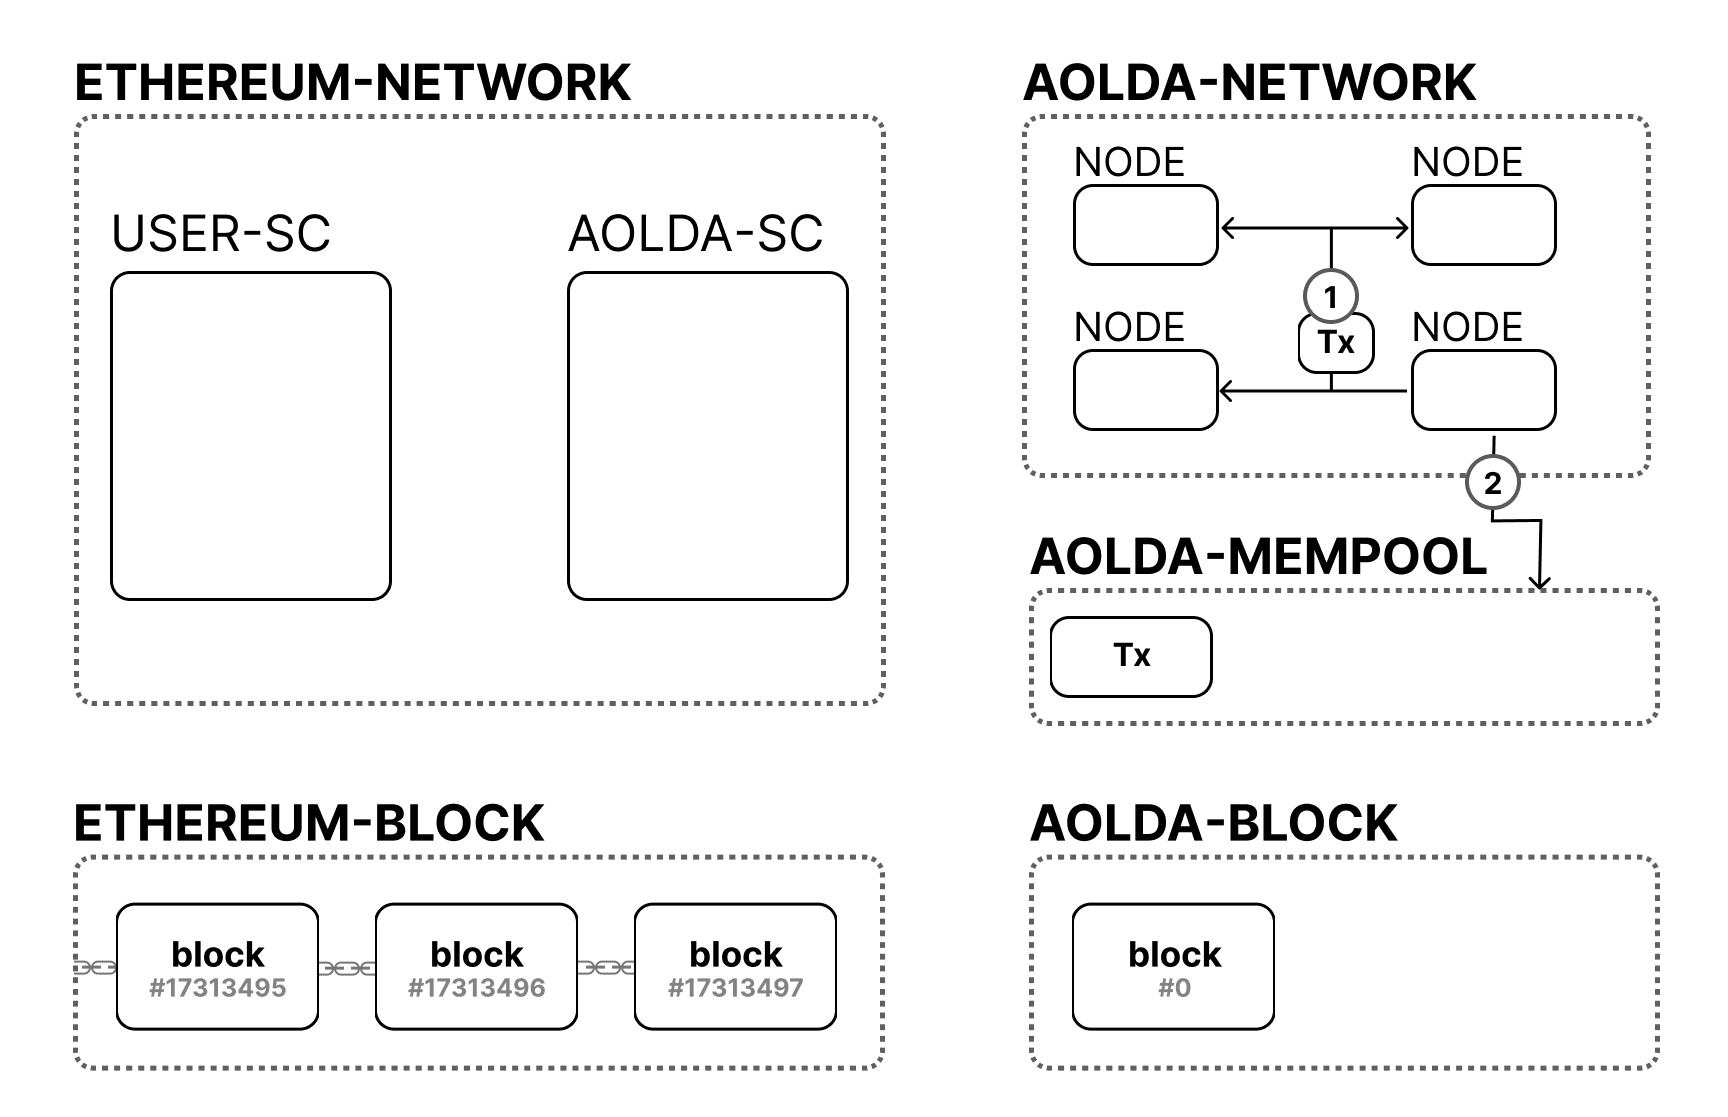
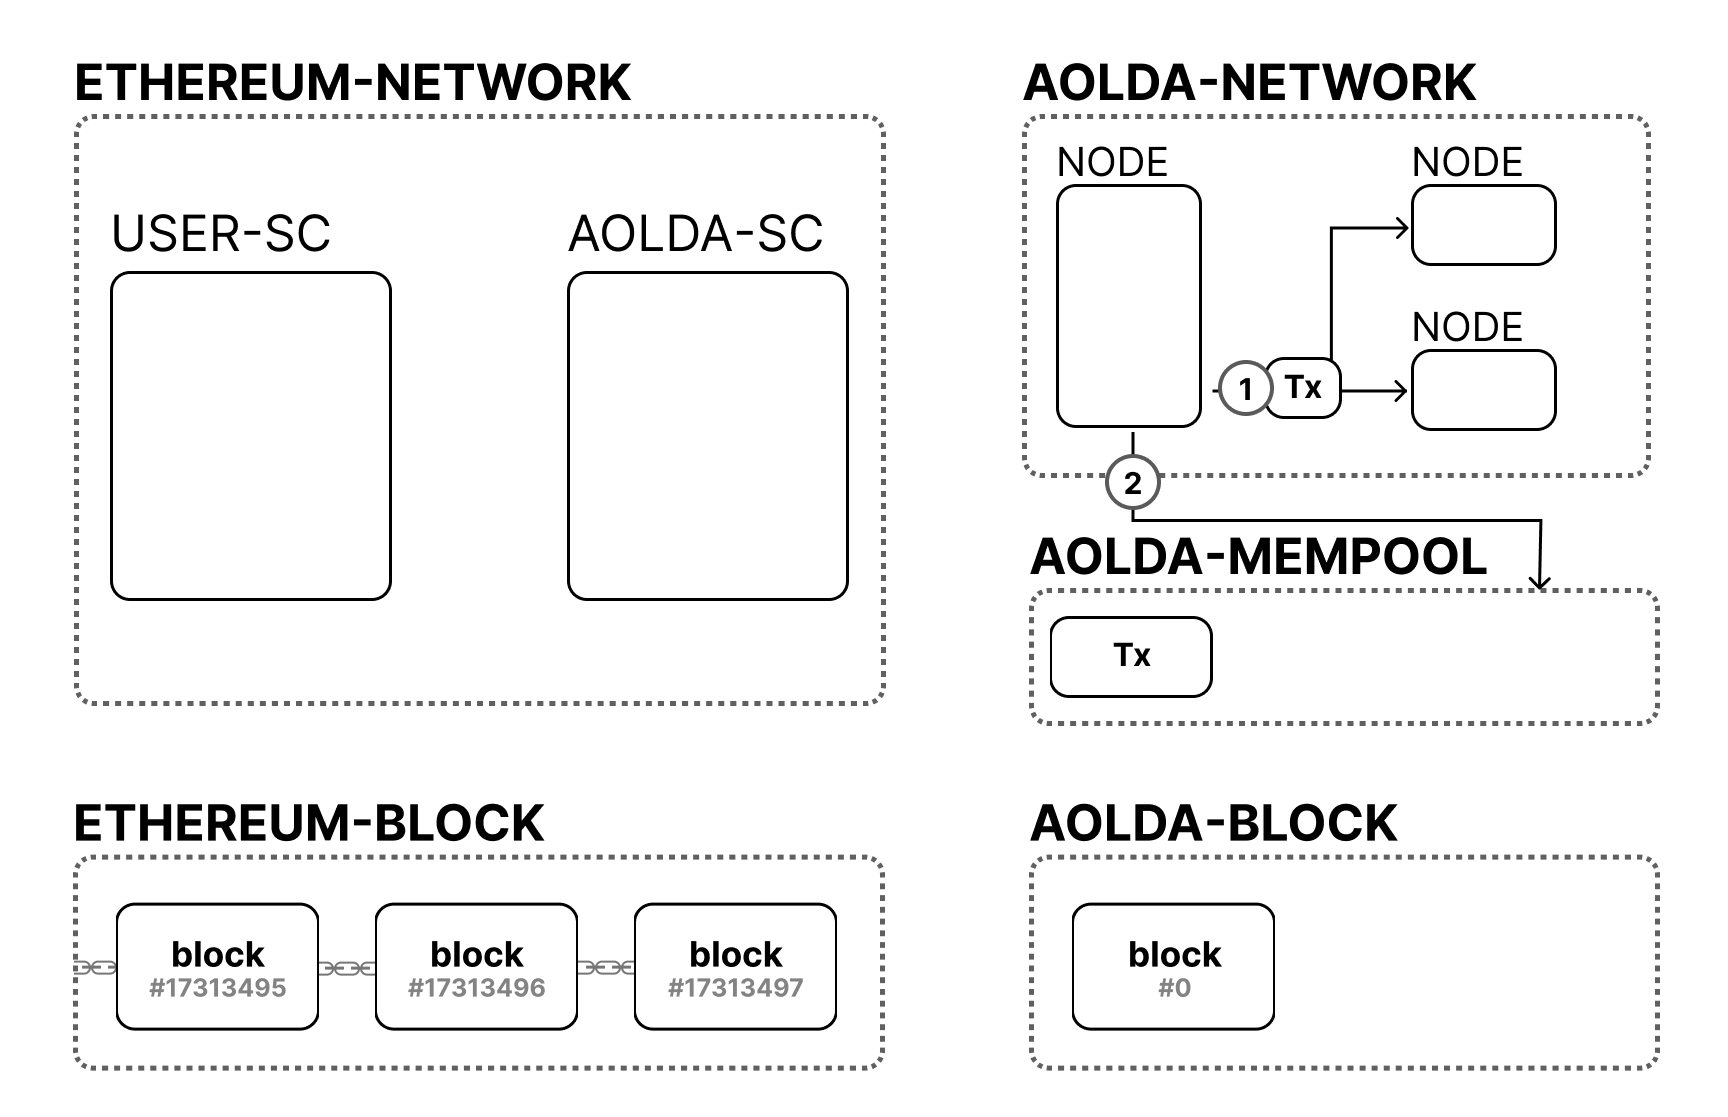
GITBOOK-9: change request with no subject merged in GitBook

diff --git a/aolda/how-to-run/create-transaction/confirm-value.md b/aolda/how-to-run/create-transaction/confirm-value.md
@@ -2,8 +2,24 @@
 
 ## 1. FindTx From Block
 
+<figure><img src="../../.gitbook/assets/1. find.png" alt=""><figcaption><p>Fig1. FindTx From Block</p></figcaption></figure>
+
+(1) 'Call With API'혹은 'Call From EVM'에서 생성된 Transaction body를 이용해 이미 확정된 Block 목록에서 같은 body에 대한 result가 있는 지 확인합니다. 만약 있다면 트랜잭션을 생성하지 않습니다.
+
 ## 2. Make Tx
+
+<figure><img src="../../.gitbook/assets/2.makeTx.png" alt=""><figcaption><p>Fig2. Make Tx</p></figcaption></figure>
+
+(1) 없다면 result값을 추가하여 type3의 트랜잭션을 생성합니다.
 
 ## 3. Broadcast And Push to Mempool&#x20;
 
+<figure><img src="../../.gitbook/assets/3. Broadcast And Push to Mempool.png" alt=""><figcaption><p>Fig3. Broadcast And Push to Mempool</p></figcaption></figure>
+
+(1) Node는 생성된 트랜잭션들을 모두 다른 Node에게 Broadcast합니다.
+
+(2) 다른 Node들은 트랜잭션의 유효성을 검사하고 이상이 없다면 트랜잭션을 처음 생성한 Node는 트랜잭션을 Mempool에 저장합니다.
+
 ## 4. CreateBlock
+
+이전 블럭이 생성된 후 충분한 시간이 지나면 Node는 Mempool에서 트랜잭션을 추출하여 새로운 블럭을 생성합니다. 블럭 생성에 대한 자세한 내용은 [Create Block 페이지](../create-aolda-block.md)에서 확인하세요.

diff --git a/aolda/README.md b/aolda/README.md
@@ -4,6 +4,8 @@ description: we connect EVM and other VMs
 
 # AOLDA : MULTI VM
 
+<figure><img src=".gitbook/assets/logo.png" alt=""><figcaption></figcaption></figure>
+
 ### 우리는 EVM과 다른 VM들을 연결합니다.
 
 비트코인이 세상에 처음 나오고 블록체인 기술이 대두되면서 비탈릭 부테린은 solidity와 EVM을 만들어 Smart Contract라는 개념을 블록체인에 도입했습니다.
@@ -12,3 +14,5 @@ description: we connect EVM and other VMs
 
 ## 블록체인이 열어갈 새로운 시장
 
+우리는 solidity외의 언어로 작성된 이 컨트랙트를 FlexiContract라고 부르기로 하였습니다. \
+누구나 쉽게 작성할 수 있는 이 플렉시 컨트랙트는 블록체인의 대중화에 크게 기여할 수 있을 것입니다.

diff --git a/aolda/how-to-run/create-transaction/call-from-evm.md b/aolda/how-to-run/create-transaction/call-from-evm.md
@@ -22,7 +22,7 @@
 
 ## 3. Broadcast And Push to Mempool&#x20;
 
-<figure><img src="../../.gitbook/assets/3. Broadcast And Push to Mempool (1).png" alt=""><figcaption><p>Fig3. Broadcast And Push to Mempool</p></figcaption></figure>
+<figure><img src="../../.gitbook/assets/3. Broadcast And Push to Mempool (1) (1).png" alt=""><figcaption><p>Fig3. Broadcast And Push to Mempool</p></figcaption></figure>
 
 (1) 가장 먼저 트랜잭션을 생성한 Node는 자신이 생성한 트랜잭션을 나머지 Node들에게 Broadcast합니다.
 

diff --git a/aolda/SUMMARY.md b/aolda/SUMMARY.md
@@ -10,12 +10,8 @@
     * [use](aolda/aolda-multi-vm/how-to-use/use.md)
     * [Make File](aolda/aolda-multi-vm/how-to-use/make-file.md)
   * [AOL Token](aolda/aolda-multi-vm/aol-token.md)
-* [Node](aolda/node.md)
+* [System](aolda/system.md)
 * [API](aolda/api.md)
-
-## STORY
-
-* [세계관](story/undefined.md)
 
 ## How to run
 

diff --git a/aolda/aolda/system.md b/aolda/aolda/system.md
@@ -1,0 +1,5 @@
+# System
+
+노드 구조 + 노드 실행 방법
+
+<figure><img src="../.gitbook/assets/NetworkSystem.png" alt=""><figcaption></figcaption></figure>
